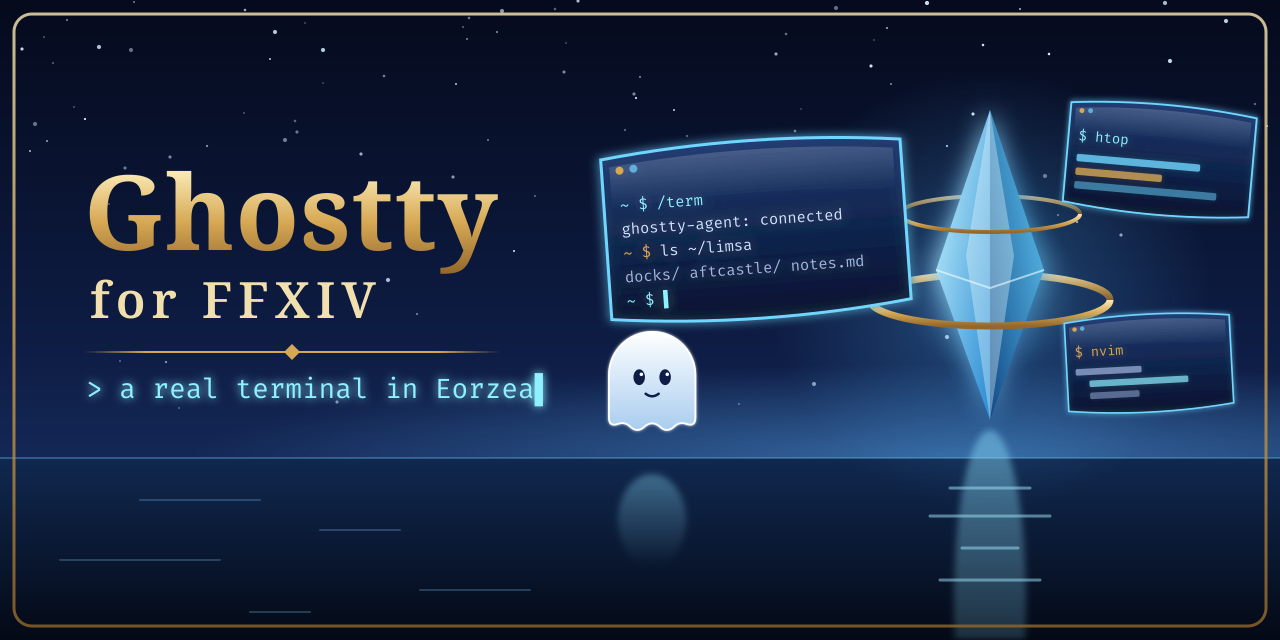
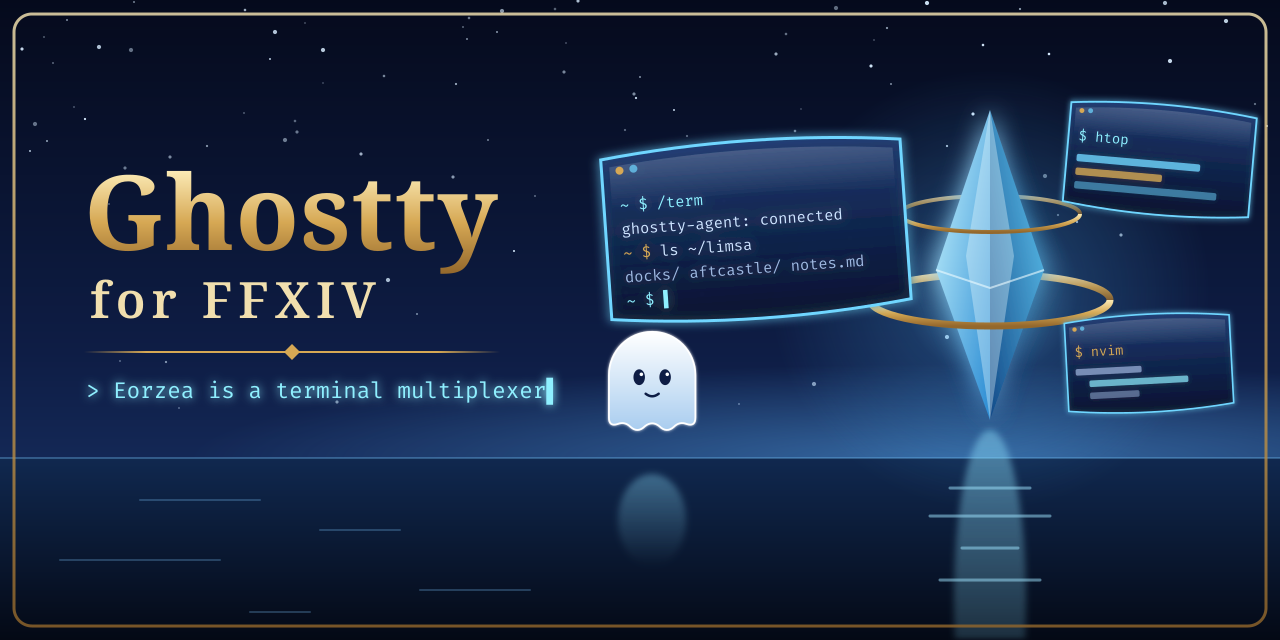
Tagline: Eorzea is a terminal multiplexer

Changed region(s): [[0.0625, 0.5625, 0.4375, 0.6562]]

diff --git a/README.md b/README.md
@@ -1,6 +1,6 @@
 # Ghostty for Dalamud
 
-![Ghostty for FFXIV: a real terminal in Eorzea](images/banner.png)
+![Ghostty for FFXIV: Eorzea is a terminal multiplexer](images/banner.png)
 
 **Vote on what it does next: https://spacegho.st/mods/ffxiv/term/vote/**
 
